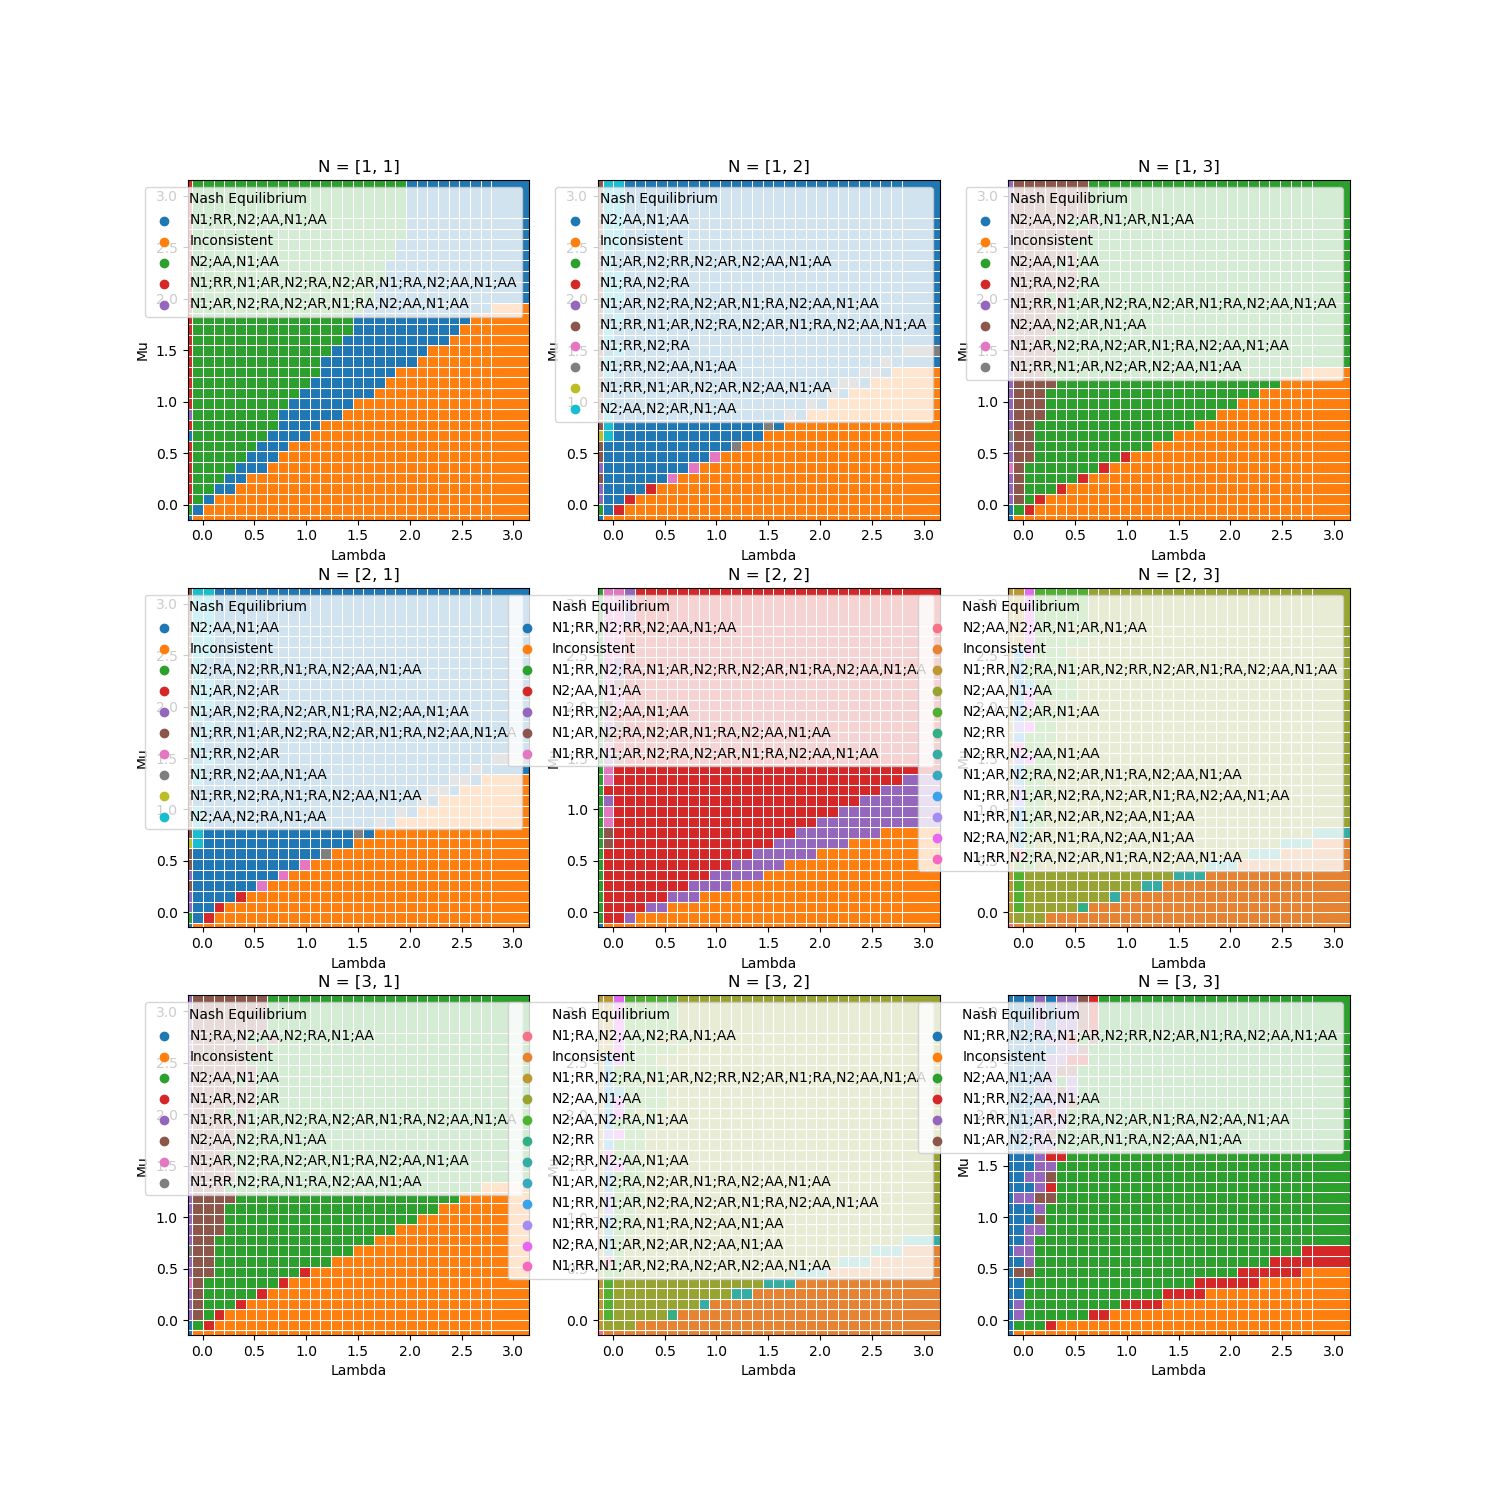
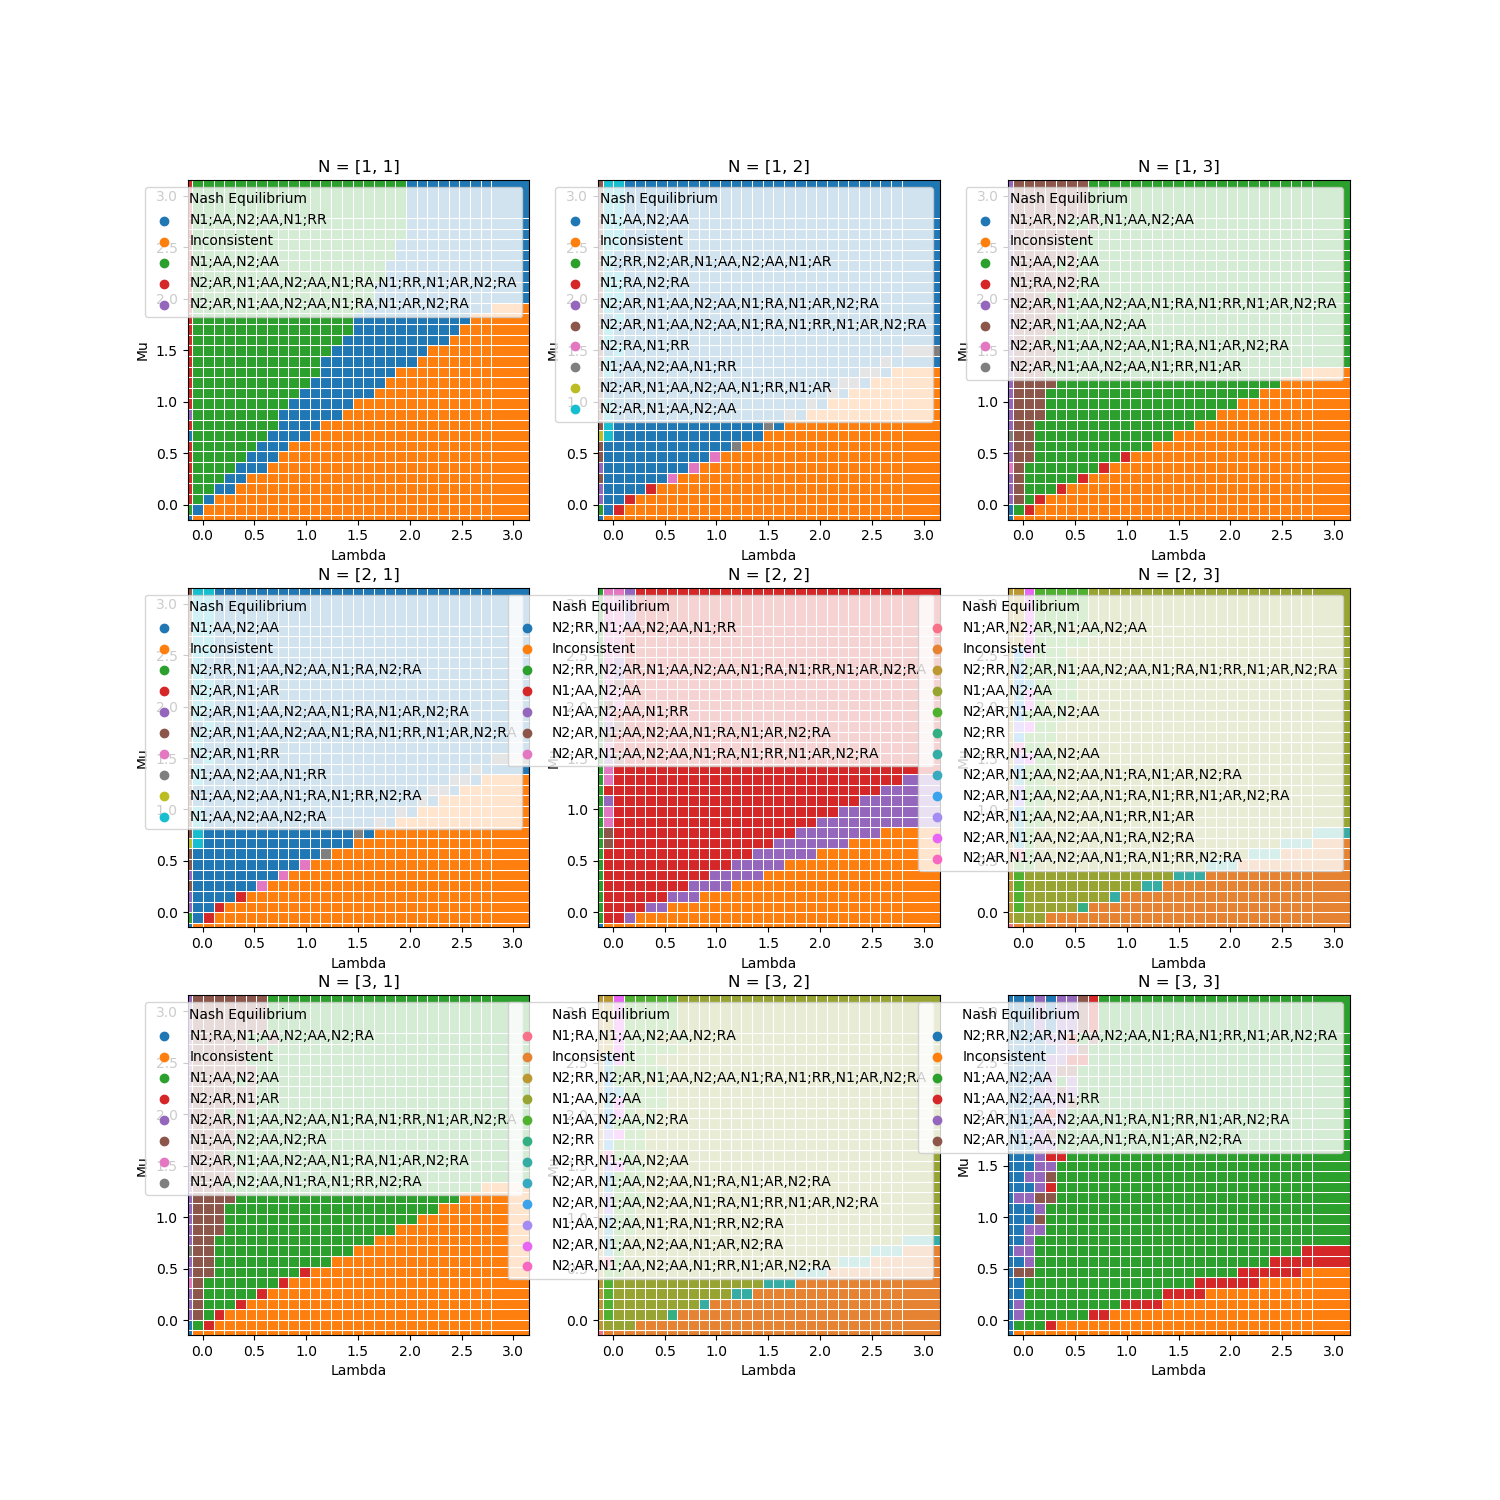
update mixed strategies plot

diff --git a/Dispatcher Agent.html b/Dispatcher Agent.html
@@ -11949,6 +11949,33 @@ $$\frac{\lambda_i + \lambda_j}{\lambda_i \cdot t_i + \lambda_j \cdot t_j} $$</p>
 </div>
 </div>
 </div>
+<div class="cell border-box-sizing text_cell rendered"><div class="prompt input_prompt">
+</div>
+<div class="inner_cell">
+<div class="text_cell_render border-box-sizing rendered_html">
+<h3 id="Mixed-Strategies-for-2-Hospitals">Mixed Strategies for 2 Hospitals<a class="anchor-link" href="#Mixed-Strategies-for-2-Hospitals">&#182;</a></h3><p><img src="src/images/previous/Hospital Mixed Nash Equ.png" alt="image.png"></p>
+
+</div>
+</div>
+</div>
+<div class="cell border-box-sizing text_cell rendered"><div class="prompt input_prompt">
+</div>
+<div class="inner_cell">
+<div class="text_cell_render border-box-sizing rendered_html">
+<h3 id="Mixed-Strategies-for-2-Hospitals-with-Dispatcher-N2-Strategy">Mixed Strategies for 2 Hospitals with Dispatcher N2 Strategy<a class="anchor-link" href="#Mixed-Strategies-for-2-Hospitals-with-Dispatcher-N2-Strategy">&#182;</a></h3><p><img src="src/images/dispatcher/Hospital Mixed Nash Equ for Dispatcher N2.png" alt="image.png"></p>
+
+</div>
+</div>
+</div>
+<div class="cell border-box-sizing text_cell rendered"><div class="prompt input_prompt">
+</div>
+<div class="inner_cell">
+<div class="text_cell_render border-box-sizing rendered_html">
+<h3 id="Mixed-Strategies-for-2-Hospitals-with-Dispatcher-N1-Strategy">Mixed Strategies for 2 Hospitals with Dispatcher N1 Strategy<a class="anchor-link" href="#Mixed-Strategies-for-2-Hospitals-with-Dispatcher-N1-Strategy">&#182;</a></h3><p><img src="src/images/dispatcher/Hospital Mixed Nash Equ for Dispatcher N1.png" alt="image.png"></p>
+
+</div>
+</div>
+</div>
     </div>
   </div>
 </body>

diff --git a/src/gt/plot/DispatcherNashMixedPlot.py b/src/gt/plot/DispatcherNashMixedPlot.py
@@ -1,17 +1,63 @@
 from gt.core.HospitalsAndDispatcherModel import DispatcherAndHospitalsModel
 from neng.game import Game
+from gt.plot.HospitalNashMixedPlot import *
 from common import *
 
 
-def find_solution(l, mu, n):
+def find_solution(l, mu, n, disp_strategy_index):
     hospital = DispatcherAndHospitalsModel(l, mu, n, N_lim, t_c)
-    G = hospital.game_matrix()
-    A = extract_player_utility(G, 0)
-    B = extract_player_utility(G, 1)
+    G = hospital.game_matrix()[disp_strategy_index]
+    A = extract_player_utility(G, 1)
+    B = extract_player_utility(G, 2)
     game = nash.Game(A, B)
     eqs = list(game.support_enumeration())
     if is_system_consistent(A, B, eqs):
-        sol = mixed_solution_value(eqs)
+        sol = mixed_or_pure_solution_value(eqs)
         return sol
     else:
         return None
+
+
+def solution_plot(disp_strategy, n, ax=None):
+    disp_strategy_idx = 0 if disp_strategy == 'N2' else 1
+    print('Computing for n = {}'.format(n))
+    data = {
+        'Lambda': [],
+        'Mu': [],
+        'Nash Equilibrium': []
+    }
+    x_ticks = [round(x, 2) for x in np.linspace(0.01, 10, 20)]
+    y_ticks = [round(x, 2) for x in np.linspace(0.01, 10, 20)]
+    for mu in y_ticks:
+        for l in x_ticks:
+            data['Lambda'].append(l)
+            data['Mu'].append(mu)
+            data['Nash Equilibrium'].append(find_solution(l, mu, n, disp_strategy_idx))
+    data = pd.DataFrame(data).pivot( 'Mu', 'Lambda', 'Nash Equilibrium')
+    sns.heatmap(data, ax=ax, vmin=-1, vmax=1, cmap='coolwarm')
+    ax.set_title('Dispatcher Strategy: {}, N = {}'.format(disp_strategy, n))
+    ax.invert_yaxis()
+    cbar = ax.collections[0].colorbar
+    cbar.set_ticks([-1, 0, 1])
+    cbar.set_ticklabels(['AA', 'AR/RA', 'RR'])
+
+
+def mixed_plot(dispatcher_strategy):
+    fig, axs = plt.subplots(ncols=3, nrows=3, figsize=(20, 20))
+    solution_plot(dispatcher_strategy, [1, 1], axs[0][0])
+    solution_plot(dispatcher_strategy, [1, 2], axs[0][1])
+    solution_plot(dispatcher_strategy, [1, 3], axs[0][2])
+    solution_plot(dispatcher_strategy, [2, 1], axs[1][0])
+    solution_plot(dispatcher_strategy, [2, 2], axs[1][1])
+    solution_plot(dispatcher_strategy, [2, 3], axs[1][2])
+    solution_plot(dispatcher_strategy, [3, 1], axs[2][0])
+    solution_plot(dispatcher_strategy, [3, 2], axs[2][1])
+    solution_plot(dispatcher_strategy, [3, 3], axs[2][2])
+    fig.savefig('../../images/dispatcher/Hospital Mixed Nash Equ for Dispatcher {}'.format(dispatcher_strategy))
+    plt.show()
+
+
+if __name__ == '__main__':
+    sns.set(style='white')
+    mixed_plot('N2')
+    mixed_plot('N1')

diff --git a/src/gt/plot/HospitalNashMixedPlot.py b/src/gt/plot/HospitalNashMixedPlot.py
@@ -5,10 +5,13 @@ def extract_player_utility(matrix, i):
     return np.array(matrix)[:, :, i]
 
 
-def mixed_solution_value(eqs):
+def mixed_or_pure_solution_value(eqs):
     for eq in eqs:
         if eq[0][0] != 1 and eq[0][1] != 1:
-            return -1 + eq[0][1] + eq[0][1]
+            return -1 + eq[0][1] + eq[1][1]
+    if len(eqs) == 1:
+        eq = eqs[0]
+        return -1 + eq[0][1] + eq[1][1]
 
 
 def is_system_consistent(A, B, eqs):
@@ -28,7 +31,7 @@ def find_solution(l, mu, n):
     game = nash.Game(A, B)
     eqs = list(game.support_enumeration())
     if is_system_consistent(A, B, eqs):
-        sol = mixed_solution_value(eqs)
+        sol = mixed_or_pure_solution_value(eqs)
         return sol
     else:
         return None
@@ -41,21 +44,20 @@ def solution_plot(n, ax=None):
         'Mu': [],
         'Nash Equilibrium': []
     }
-    x_ticks = [round(x, 2) for x in np.linspace(0.01, 3, 10)]
-    y_ticks = [round(x, 2) for x in np.linspace(0.01, 3, 10)]
+    x_ticks = [round(x, 2) for x in np.linspace(0.01, 5, 10)]
+    y_ticks = [round(x, 2) for x in np.linspace(0.01, 5, 10)]
     for mu in y_ticks:
         for l in x_ticks:
             data['Lambda'].append(l)
             data['Mu'].append(mu)
             data['Nash Equilibrium'].append(find_solution(l, mu, n))
-    data = pd.DataFrame(data).pivot('Lambda', 'Mu', 'Nash Equilibrium')
-    sns.heatmap(data, ax=ax, vmin=-1, vmax=1)
+    data = pd.DataFrame(data).pivot('Mu', 'Lambda',  'Nash Equilibrium')
+    sns.heatmap(data, ax=ax, vmin=-1, vmax=1, cmap='coolwarm')
     ax.set_title('N = ' + str(n))
+    ax.invert_yaxis()
     cbar = ax.collections[0].colorbar
     cbar.set_ticks([-1, 0, 1])
     cbar.set_ticklabels(['AA', 'AR/RA', 'RR'])
-    # ax.set_yticks(y_ticks)
-    # ax.set_xticks(x_ticks)
 
 
 if __name__ == '__main__':

diff --git a/src/gt/core/test.py b/src/gt/core/test.py
@@ -1,12 +1,37 @@
 from gt.plot.DispatcherPlot import *
-from gt.core.HospitalsModel import HospitalsModel
-from gt.plot.HospitalNashPlot import *
+
+
+def find_nash(la, mu, n, print_matrix=False):
+    model = DispatcherAndHospitalsModel(la, mu, n, 3, 10)
+    matrix = model.game_matrix()
+    if print_matrix:
+        print(matrix)
+
+    text = "NFG 1 R \"Ambulance Dispatching Game\" { \"Dispatcher\" \"Hospital1\" \"Hospital2\" }\n\n"
+    text += "{ { \"N2\" \"N1\" }\n"
+    text += "{ \"A\" \"R\" }\n"
+    text += "{ \"A\" \"R\" }\n"
+    text += "}\n\"\"\n\n"
+
+    text += "{\n"
+    for k in range(2):
+        for j in range(2):
+            for i in range(2):
+                text += "{ \"\" %f, %f, %f }\n" % (matrix[i][j][k][0], matrix[i][j][k][1], matrix[i][j][k][2])
+    text += "}\n"
+    text += "1 2 3 4 5 6 7 8"
+
+    game = Game(text)
+    sol = game.findEquilibria()
+    return sol
+
 
 if __name__ == '__main__':
-    la = 1.14414
-    mu = 0.01
-    model = HospitalsModel(la, mu, [1, 1], 3, 10)
-    print(model.global_average_time_matrix())
+    la = 2
+    mu = 2
+    game = Game('2x2x2.nfg')
+    print(game.findEquilibria('pne'))
+    # print(find_nash(la, mu, [1,1], True))
     # la = 1.14414
     # model = HospitalsModel(la, mu, [1, 1], 3, 10)
     # print(model.global_average_time_matrix())

diff --git a/src/Previous.md b/src/Previous.md
@@ -1,5 +1,9 @@
-Nash Equilibrium for Hospital
+Pure Nash Equilibrium for Hospital
 ![Nash Equilibrium for Hospital](images/previous/Hospital%20Nash%20Equ.png)  
+
+Mixed Nash Equilibrium for Hospital
+![Nash Equilibrium for Hospital](images/previous/Hospital%20Mixed%20Nash%20Equ.png)  
+
 
 Global Quality
 ![Global quality](images/previous/Global%20Nash%20Equ.png)
